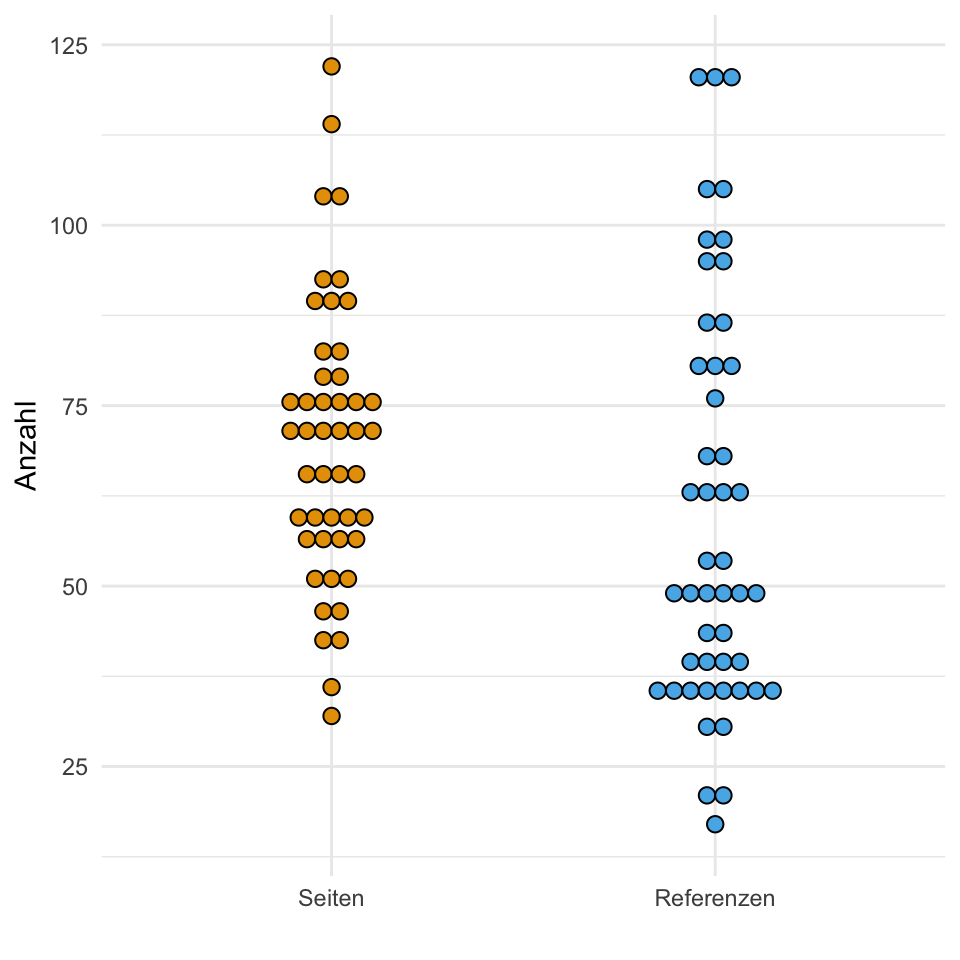
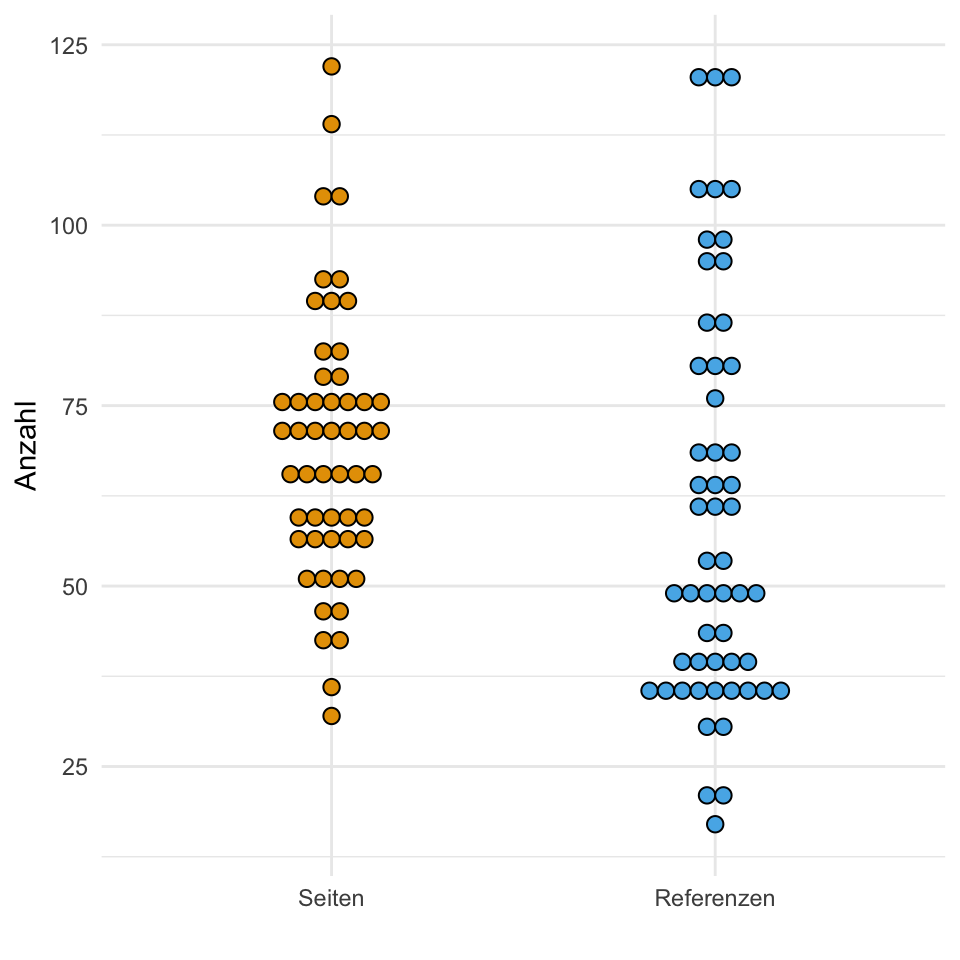
added text

diff --git a/docs/abschlussarbeit.html b/docs/abschlussarbeit.html
@@ -457,7 +457,7 @@ window.Quarto = {
           <li class="sidebar-item">
   <div class="sidebar-item-container"> 
   <a href="./stat-tests-posthoc.html" class="sidebar-item-text sidebar-link">
- <span class="menu-text"><span class="chapter-number">33</span>&nbsp; <span class="chapter-title">Multiple Vergleiche oder Post-hoc Tests</span></span></a>
+ <span class="menu-text"><span class="chapter-number">33</span>&nbsp; <span class="chapter-title">Multiple Vergleiche &amp; Post-hoc Tests</span></span></a>
   </div>
 </li>
           <li class="sidebar-item">
@@ -816,7 +816,7 @@ window.Quarto = {
 </header>
 
 
-<p><em>Letzte Änderung am 10. March 2024 um 20:32:29</em></p>
+<p><em>Letzte Änderung am 16. March 2024 um 19:24:32</em></p>
 <blockquote class="blockquote">
 <p><em>“There is no such thing as a new idea. It is impossible. We simply take a lot of old ideas and put them into a sort of mental kaleidoscope. We give them a turn and they make new and curious combinations. We keep on turning and making new combinations indefinitely; but they are the same old pieces of colored glass that have been in use through all the ages.” — Mark Twain</em></p>
 </blockquote>
@@ -845,7 +845,7 @@ Hilfe durch die Studienberatung
 <div id="fig-abschlussarbeit-bsc1" class="quarto-figure quarto-figure-center quarto-float anchored" data-fig-align="center">
 <figure class="quarto-float quarto-float-fig figure">
 <div aria-describedby="fig-abschlussarbeit-bsc1-caption-0ceaefa1-69ba-4598-a22c-09a6ac19f8ca">
-<a href="abschlussarbeit_files/figure-html/fig-abschlussarbeit-bsc1-1.png" class="lightbox" data-gallery="quarto-lightbox-gallery-1" data-glightbox="description: .lightbox-desc-1"><img src="abschlussarbeit_files/figure-html/fig-abschlussarbeit-bsc1-1.png" class="img-fluid quarto-figure quarto-figure-center figure-img" width="480"></a>
+<a href="abschlussarbeit_files/figure-html/fig-abschlussarbeit-bsc1-1.png" class="lightbox" data-glightbox="description: .lightbox-desc-1" data-gallery="quarto-lightbox-gallery-1"><img src="abschlussarbeit_files/figure-html/fig-abschlussarbeit-bsc1-1.png" class="img-fluid quarto-figure quarto-figure-center figure-img" width="480"></a>
 </div>
 <figcaption class="quarto-float-caption-bottom quarto-float-caption quarto-float-fig" id="fig-abschlussarbeit-bsc1-caption-0ceaefa1-69ba-4598-a22c-09a6ac19f8ca">
 Abbildung&nbsp;4.1— Anzahl der Referenzen und Seiten in Bachelorarbeiten der Fakultät Agrarwissenschaften und Landschaftsarchitektur (AuL). Alle Angaben ohne Gewähr und Doppelungen können enthalten sein. Die Auswertung fand anonym im Rahmen des Moduls <em>Spezielle Statistik und Versuchswesen</em> im Studiengang Pflanzenbiologie statt.
@@ -861,10 +861,10 @@ Abbildung&nbsp;4.1— Anzahl der Referenzen und Seiten in Bachelorarbeiten der F
 <div id="fig-abschlussarbeit-bsc2" class="quarto-figure quarto-figure-center quarto-float anchored" data-fig-align="center">
 <figure class="quarto-float quarto-float-fig figure">
 <div aria-describedby="fig-abschlussarbeit-bsc2-caption-0ceaefa1-69ba-4598-a22c-09a6ac19f8ca">
-<a href="abschlussarbeit_files/figure-html/fig-abschlussarbeit-bsc2-1.png" class="lightbox" data-gallery="quarto-lightbox-gallery-2" data-glightbox="description: .lightbox-desc-2"><img src="abschlussarbeit_files/figure-html/fig-abschlussarbeit-bsc2-1.png" class="img-fluid quarto-figure quarto-figure-center figure-img" width="576"></a>
+<a href="abschlussarbeit_files/figure-html/fig-abschlussarbeit-bsc2-1.png" class="lightbox" data-glightbox="description: .lightbox-desc-2" data-gallery="quarto-lightbox-gallery-2"><img src="abschlussarbeit_files/figure-html/fig-abschlussarbeit-bsc2-1.png" class="img-fluid quarto-figure quarto-figure-center figure-img" width="576"></a>
 </div>
 <figcaption class="quarto-float-caption-bottom quarto-float-caption quarto-float-fig" id="fig-abschlussarbeit-bsc2-caption-0ceaefa1-69ba-4598-a22c-09a6ac19f8ca">
-Abbildung&nbsp;4.2— Darstellung des heterogenen Zusammenhangs von Seitenzahlen zu der Anzahl an Referenzen in einer Bachelorarbeit. Die rote Linie stellt ein 1:1 Verhältnis von Seitenzahl und der Anzahl an Referenzen dar. Die gestrichelten Linien geben das Minimum und das Maximum, die durchgezogene Linien die mittlere Seitenzahl sowie die mittlere Anzahl an Referenzen wieder. Eingefärbt sind die Punkte nach der Foldchange (abk. <em>FC</em>). Insgesamt haben 24 Arbeiten weniger Referenzen als Seiten zu 13 Arbeiten mit mehr Referenzen als Seiten.
+Abbildung&nbsp;4.2— Darstellung des heterogenen Zusammenhangs von Seitenzahlen zu der Anzahl an Referenzen in einer Bachelorarbeit. Die rote Linie stellt ein 1:1 Verhältnis von Seitenzahl und der Anzahl an Referenzen dar. Die gestrichelten Linien geben das Minimum und das Maximum, die durchgezogene Linien die mittlere Seitenzahl sowie die mittlere Anzahl an Referenzen wieder. Eingefärbt sind die Punkte nach der Foldchange (abk. <em>FC</em>). Insgesamt haben 27 Arbeiten weniger Referenzen als Seiten zu 16 Arbeiten mit mehr Referenzen als Seiten.
 </figcaption>
 </figure>
 </div>
@@ -914,7 +914,7 @@ How to read a book…
 <div id="fig-abschluss-01" class="quarto-figure quarto-figure-center quarto-float anchored" width="100%" data-fig-align="center">
 <figure class="quarto-float quarto-float-fig figure">
 <div aria-describedby="fig-abschluss-01-caption-0ceaefa1-69ba-4598-a22c-09a6ac19f8ca">
-<a href="images/abschlussarbeit/phd_writing_01.png" class="lightbox" data-gallery="quarto-lightbox-gallery-3" data-glightbox="description: .lightbox-desc-3"><img src="images/abschlussarbeit/phd_writing_01.png" id="fig-abschluss-01" class="img-fluid quarto-figure quarto-figure-center anchored figure-img" style="width:100.0%"></a>
+<a href="images/abschlussarbeit/phd_writing_01.png" class="lightbox" data-glightbox="description: .lightbox-desc-3" data-gallery="quarto-lightbox-gallery-3"><img src="images/abschlussarbeit/phd_writing_01.png" id="fig-abschluss-01" class="img-fluid quarto-figure quarto-figure-center anchored figure-img" style="width:100.0%"></a>
 </div>
 <figcaption class="quarto-float-caption-bottom quarto-float-caption quarto-float-fig quarto-uncaptioned" id="fig-abschluss-01-caption-0ceaefa1-69ba-4598-a22c-09a6ac19f8ca">
 Abbildung&nbsp;4.3
@@ -949,7 +949,7 @@ Abbildung&nbsp;4.3
 <div id="fig-write-motivation" class="quarto-figure quarto-figure-center quarto-float anchored" data-fig-align="center">
 <figure class="quarto-float quarto-float-fig figure">
 <div aria-describedby="fig-write-motivation-caption-0ceaefa1-69ba-4598-a22c-09a6ac19f8ca">
-<a href="images/abschlussarbeit/motivation.jpg" class="lightbox" data-gallery="quarto-lightbox-gallery-4" data-glightbox="description: .lightbox-desc-4"><img src="images/abschlussarbeit/motivation.jpg" class="img-fluid quarto-figure quarto-figure-center figure-img" style="width:50.0%"></a>
+<a href="images/abschlussarbeit/motivation.jpg" class="lightbox" data-glightbox="description: .lightbox-desc-4" data-gallery="quarto-lightbox-gallery-4"><img src="images/abschlussarbeit/motivation.jpg" class="img-fluid quarto-figure quarto-figure-center figure-img" style="width:50.0%"></a>
 </div>
 <figcaption class="quarto-float-caption-bottom quarto-float-caption quarto-float-fig" id="fig-write-motivation-caption-0ceaefa1-69ba-4598-a22c-09a6ac19f8ca">
 Abbildung&nbsp;4.4— Der kleiner Unterschied zwischen der Motivation und der Disziplin. Quelle: @impostercomics
@@ -960,7 +960,7 @@ Abbildung&nbsp;4.4— Der kleiner Unterschied zwischen der Motivation und der Di
 <div id="fig-writing-github" class="quarto-figure quarto-figure-center quarto-float anchored" data-fig-align="center">
 <figure class="quarto-float quarto-float-fig figure">
 <div aria-describedby="fig-writing-github-caption-0ceaefa1-69ba-4598-a22c-09a6ac19f8ca">
-<a href="images/abschlussarbeit/github_2023_09.png" class="lightbox" data-gallery="quarto-lightbox-gallery-5" data-glightbox="description: .lightbox-desc-5"><img src="images/abschlussarbeit/github_2023_09.png" class="img-fluid quarto-figure quarto-figure-center figure-img" style="width:1000.0%"></a>
+<a href="images/abschlussarbeit/github_2023_09.png" class="lightbox" data-glightbox="description: .lightbox-desc-5" data-gallery="quarto-lightbox-gallery-5"><img src="images/abschlussarbeit/github_2023_09.png" class="img-fluid quarto-figure quarto-figure-center figure-img" style="width:1000.0%"></a>
 </div>
 <figcaption class="quarto-float-caption-bottom quarto-float-caption quarto-float-fig" id="fig-writing-github-caption-0ceaefa1-69ba-4598-a22c-09a6ac19f8ca">
 Abbildung&nbsp;4.5— Mein Schreibprozess am Skript und anderen Lehrprojekten. Es ist nicht immer dieses Skript, ich mache ja noch andere Sachen im bezug auf meine Lehre.
@@ -984,7 +984,7 @@ Abbildung&nbsp;4.5— Mein Schreibprozess am Skript und anderen Lehrprojekten. E
 <div id="fig-write-phd-02" class="quarto-figure quarto-figure-center quarto-float anchored" width="50%" data-fig-align="center">
 <figure class="quarto-float quarto-float-fig figure">
 <div aria-describedby="fig-write-phd-02-caption-0ceaefa1-69ba-4598-a22c-09a6ac19f8ca">
-<a href="images/abschlussarbeit/coffee.jpg" class="lightbox" data-gallery="quarto-lightbox-gallery-6" data-glightbox="description: .lightbox-desc-6"><img src="images/abschlussarbeit/coffee.jpg" id="fig-write-phd-02" class="img-fluid quarto-figure quarto-figure-center anchored figure-img" style="width:50.0%"></a>
+<a href="images/abschlussarbeit/coffee.jpg" class="lightbox" data-glightbox="description: .lightbox-desc-6" data-gallery="quarto-lightbox-gallery-6"><img src="images/abschlussarbeit/coffee.jpg" id="fig-write-phd-02" class="img-fluid quarto-figure quarto-figure-center anchored figure-img" style="width:50.0%"></a>
 </div>
 <figcaption class="quarto-float-caption-bottom quarto-float-caption quarto-float-fig quarto-uncaptioned" id="fig-write-phd-02-caption-0ceaefa1-69ba-4598-a22c-09a6ac19f8ca">
 Abbildung&nbsp;4.6
@@ -1042,7 +1042,7 @@ Warum nicht mit <span class="math inline">\(\LaTeX\)</span> und Overleaf?
 <div id="fig-write-phd-02" class="quarto-figure quarto-figure-center quarto-float anchored" width="100%" data-fig-align="center">
 <figure class="quarto-float quarto-float-fig figure">
 <div aria-describedby="fig-write-phd-02-caption-0ceaefa1-69ba-4598-a22c-09a6ac19f8ca">
-<a href="images/abschlussarbeit/phd_betreuer-1.jpg" class="lightbox" data-gallery="quarto-lightbox-gallery-7" data-glightbox="description: .lightbox-desc-7"><img src="images/abschlussarbeit/phd_betreuer-1.jpg" id="fig-write-phd-02" class="img-fluid quarto-figure quarto-figure-center anchored figure-img" style="width:100.0%"></a>
+<a href="images/abschlussarbeit/phd_betreuer-1.jpg" class="lightbox" data-glightbox="description: .lightbox-desc-7" data-gallery="quarto-lightbox-gallery-7"><img src="images/abschlussarbeit/phd_betreuer-1.jpg" id="fig-write-phd-02" class="img-fluid quarto-figure quarto-figure-center anchored figure-img" style="width:100.0%"></a>
 </div>
 <figcaption class="quarto-float-caption-bottom quarto-float-caption quarto-float-fig quarto-uncaptioned" id="fig-write-phd-02-caption-0ceaefa1-69ba-4598-a22c-09a6ac19f8ca">
 Abbildung&nbsp;4.7
@@ -1061,7 +1061,7 @@ Abbildung&nbsp;4.7
 <div id="fig-write-phd-03" class="quarto-figure quarto-figure-center quarto-float anchored" width="100%" data-fig-align="center">
 <figure class="quarto-float quarto-float-fig figure">
 <div aria-describedby="fig-write-phd-03-caption-0ceaefa1-69ba-4598-a22c-09a6ac19f8ca">
-<a href="images/abschlussarbeit/phd_betreuer-2.jpg" class="lightbox" data-gallery="quarto-lightbox-gallery-8" data-glightbox="description: .lightbox-desc-8"><img src="images/abschlussarbeit/phd_betreuer-2.jpg" id="fig-write-phd-03" class="img-fluid quarto-figure quarto-figure-center anchored figure-img" style="width:100.0%"></a>
+<a href="images/abschlussarbeit/phd_betreuer-2.jpg" class="lightbox" data-glightbox="description: .lightbox-desc-8" data-gallery="quarto-lightbox-gallery-8"><img src="images/abschlussarbeit/phd_betreuer-2.jpg" id="fig-write-phd-03" class="img-fluid quarto-figure quarto-figure-center anchored figure-img" style="width:100.0%"></a>
 </div>
 <figcaption class="quarto-float-caption-bottom quarto-float-caption quarto-float-fig quarto-uncaptioned" id="fig-write-phd-03-caption-0ceaefa1-69ba-4598-a22c-09a6ac19f8ca">
 Abbildung&nbsp;4.8
@@ -1091,7 +1091,7 @@ Abbildung&nbsp;4.8
 <div id="fig-duerer" class="quarto-figure quarto-figure-center quarto-float anchored" data-fig-align="center">
 <figure class="quarto-float quarto-float-fig figure">
 <div aria-describedby="fig-duerer-caption-0ceaefa1-69ba-4598-a22c-09a6ac19f8ca">
-<a href="images/preface/melencolia.jpg" class="lightbox" data-gallery="quarto-lightbox-gallery-9" data-glightbox="description: .lightbox-desc-9"><img src="images/preface/melencolia.jpg" class="img-fluid quarto-figure quarto-figure-center figure-img" style="width:100.0%"></a>
+<a href="images/preface/melencolia.jpg" class="lightbox" data-glightbox="description: .lightbox-desc-9" data-gallery="quarto-lightbox-gallery-9"><img src="images/preface/melencolia.jpg" class="img-fluid quarto-figure quarto-figure-center figure-img" style="width:100.0%"></a>
 </div>
 <figcaption class="quarto-float-caption-bottom quarto-float-caption quarto-float-fig" id="fig-duerer-caption-0ceaefa1-69ba-4598-a22c-09a6ac19f8ca">
 Abbildung&nbsp;4.9— Die erste Stufe des Genies, mit dem Willen zum Schaffen, aber unfähig, zu tun
@@ -1122,7 +1122,7 @@ Wichtigste Frage am Ende deiner Abschussarbeit…
 <div id="fig-write-01" class="quarto-figure quarto-figure-center quarto-float anchored" data-fig-align="center">
 <figure class="quarto-float quarto-float-fig figure">
 <div aria-describedby="fig-write-01-caption-0ceaefa1-69ba-4598-a22c-09a6ac19f8ca">
-<a href="images/abschlussarbeit/weisseblatt.jpeg" class="lightbox" data-gallery="quarto-lightbox-gallery-10" data-glightbox="description: .lightbox-desc-10"><img src="images/abschlussarbeit/weisseblatt.jpeg" class="img-fluid quarto-figure quarto-figure-center figure-img" style="width:80.0%"></a>
+<a href="images/abschlussarbeit/weisseblatt.jpeg" class="lightbox" data-glightbox="description: .lightbox-desc-10" data-gallery="quarto-lightbox-gallery-10"><img src="images/abschlussarbeit/weisseblatt.jpeg" class="img-fluid quarto-figure quarto-figure-center figure-img" style="width:80.0%"></a>
 </div>
 <figcaption class="quarto-float-caption-bottom quarto-float-caption quarto-float-fig" id="fig-write-01-caption-0ceaefa1-69ba-4598-a22c-09a6ac19f8ca">
 Abbildung&nbsp;4.10— Quelle: Dorthe Landschulz / Holzbaum-Verlag
@@ -1255,7 +1255,7 @@ Hinweis
 <div id="fig-write-04" class="quarto-figure quarto-figure-center quarto-float anchored" width="70%" data-fig-align="center">
 <figure class="quarto-float quarto-float-fig figure">
 <div aria-describedby="fig-write-04-caption-0ceaefa1-69ba-4598-a22c-09a6ac19f8ca">
-<a href="images/abschlussarbeit/comma.jpg" class="lightbox" data-gallery="quarto-lightbox-gallery-11" data-glightbox="description: .lightbox-desc-11"><img src="images/abschlussarbeit/comma.jpg" id="fig-write-04" class="img-fluid quarto-figure quarto-figure-center anchored figure-img" style="width:70.0%"></a>
+<a href="images/abschlussarbeit/comma.jpg" class="lightbox" data-glightbox="description: .lightbox-desc-11" data-gallery="quarto-lightbox-gallery-11"><img src="images/abschlussarbeit/comma.jpg" id="fig-write-04" class="img-fluid quarto-figure quarto-figure-center anchored figure-img" style="width:70.0%"></a>
 </div>
 <figcaption class="quarto-float-caption-bottom quarto-float-caption quarto-float-fig quarto-uncaptioned" id="fig-write-04-caption-0ceaefa1-69ba-4598-a22c-09a6ac19f8ca">
 Abbildung&nbsp;4.11
@@ -1292,7 +1292,7 @@ Gut
 <div id="fig-write-02" class="quarto-figure quarto-figure-center quarto-float anchored" width="70%" data-fig-align="center">
 <figure class="quarto-float quarto-float-fig figure">
 <div aria-describedby="fig-write-02-caption-0ceaefa1-69ba-4598-a22c-09a6ac19f8ca">
-<a href="images/abschlussarbeit/dog_poo.png" class="lightbox" data-gallery="quarto-lightbox-gallery-12" data-glightbox="description: .lightbox-desc-12"><img src="images/abschlussarbeit/dog_poo.png" id="fig-write-02" class="img-fluid quarto-figure quarto-figure-center anchored figure-img" style="width:70.0%"></a>
+<a href="images/abschlussarbeit/dog_poo.png" class="lightbox" data-glightbox="description: .lightbox-desc-12" data-gallery="quarto-lightbox-gallery-12"><img src="images/abschlussarbeit/dog_poo.png" id="fig-write-02" class="img-fluid quarto-figure quarto-figure-center anchored figure-img" style="width:70.0%"></a>
 </div>
 <figcaption class="quarto-float-caption-bottom quarto-float-caption quarto-float-fig quarto-uncaptioned" id="fig-write-02-caption-0ceaefa1-69ba-4598-a22c-09a6ac19f8ca">
 Abbildung&nbsp;4.12
@@ -1355,7 +1355,7 @@ Gut
 <div id="fig-write-03" class="quarto-figure quarto-figure-center quarto-float anchored" width="70%" data-fig-align="center">
 <figure class="quarto-float quarto-float-fig figure">
 <div aria-describedby="fig-write-03-caption-0ceaefa1-69ba-4598-a22c-09a6ac19f8ca">
-<a href="images/abschlussarbeit/snake_holiday.png" class="lightbox" data-gallery="quarto-lightbox-gallery-13" data-glightbox="description: .lightbox-desc-13"><img src="images/abschlussarbeit/snake_holiday.png" id="fig-write-03" class="img-fluid quarto-figure quarto-figure-center anchored figure-img" style="width:70.0%"></a>
+<a href="images/abschlussarbeit/snake_holiday.png" class="lightbox" data-glightbox="description: .lightbox-desc-13" data-gallery="quarto-lightbox-gallery-13"><img src="images/abschlussarbeit/snake_holiday.png" id="fig-write-03" class="img-fluid quarto-figure quarto-figure-center anchored figure-img" style="width:70.0%"></a>
 </div>
 <figcaption class="quarto-float-caption-bottom quarto-float-caption quarto-float-fig quarto-uncaptioned" id="fig-write-03-caption-0ceaefa1-69ba-4598-a22c-09a6ac19f8ca">
 Abbildung&nbsp;4.13
@@ -1463,7 +1463,7 @@ Wichtig - Bitte lesen!
 <div id="fig-bsc-01" class="quarto-figure quarto-figure-center quarto-float anchored" data-fig-align="center">
 <figure class="quarto-float quarto-float-fig figure">
 <div aria-describedby="fig-bsc-01-caption-0ceaefa1-69ba-4598-a22c-09a6ac19f8ca">
-<a href="images/bachelor.png" class="lightbox" data-gallery="quarto-lightbox-gallery-14" data-glightbox="description: .lightbox-desc-14"><img src="images/bachelor.png" class="img-fluid quarto-figure quarto-figure-center figure-img" style="width:60.0%"></a>
+<a href="images/bachelor.png" class="lightbox" data-glightbox="description: .lightbox-desc-14" data-gallery="quarto-lightbox-gallery-14"><img src="images/bachelor.png" class="img-fluid quarto-figure quarto-figure-center figure-img" style="width:60.0%"></a>
 </div>
 <figcaption class="quarto-float-caption-bottom quarto-float-caption quarto-float-fig" id="fig-bsc-01-caption-0ceaefa1-69ba-4598-a22c-09a6ac19f8ca">
 Abbildung&nbsp;4.14— Grober zeitlicher Ablauf einer Bachelorarbeit. Die Präsentation umfasst ca. 10 Slides und folgt ebenfalls dem IMRAD Schema. Ich rechne mit 350 Worten pro deutscher Standardseite.
@@ -1512,7 +1512,7 @@ Korrekte Beschriftung und Referenzierung einer Abbildung
 <div id="fig-boxplot-example" class="quarto-figure quarto-figure-center quarto-float anchored" data-fig-align="center">
 <figure class="quarto-float quarto-float-fig figure">
 <div aria-describedby="fig-boxplot-example-caption-0ceaefa1-69ba-4598-a22c-09a6ac19f8ca">
-<a href="abschlussarbeit_files/figure-html/fig-boxplot-example-1.png" class="lightbox" data-gallery="quarto-lightbox-gallery-15" data-glightbox="description: .lightbox-desc-15"><img src="abschlussarbeit_files/figure-html/fig-boxplot-example-1.png" class="img-fluid quarto-figure quarto-figure-center figure-img" width="384"></a>
+<a href="abschlussarbeit_files/figure-html/fig-boxplot-example-1.png" class="lightbox" data-glightbox="description: .lightbox-desc-15" data-gallery="quarto-lightbox-gallery-15"><img src="abschlussarbeit_files/figure-html/fig-boxplot-example-1.png" class="img-fluid quarto-figure quarto-figure-center figure-img" width="384"></a>
 </div>
 <figcaption class="quarto-float-caption-bottom quarto-float-caption quarto-float-fig" id="fig-boxplot-example-caption-0ceaefa1-69ba-4598-a22c-09a6ac19f8ca">
 Abbildung&nbsp;4.15— Boxplots der Sprungweiten in [cm] getrennt für Hunde- und Katzenflöhe.
@@ -1627,7 +1627,7 @@ Tabelle&nbsp;4.1— Tabelle der Sprunglängen in [cm] von Hunde- und Katzenflöh
 
 <div class="hidden" aria-hidden="true">
 <span class="glightbox-desc lightbox-desc-1">Abbildung&nbsp;4.1— Anzahl der Referenzen und Seiten in Bachelorarbeiten der Fakultät Agrarwissenschaften und Landschaftsarchitektur (AuL). Alle Angaben ohne Gewähr und Doppelungen können enthalten sein. Die Auswertung fand anonym im Rahmen des Moduls <em>Spezielle Statistik und Versuchswesen</em> im Studiengang Pflanzenbiologie statt.</span>
-<span class="glightbox-desc lightbox-desc-2">Abbildung&nbsp;4.2— Darstellung des heterogenen Zusammenhangs von Seitenzahlen zu der Anzahl an Referenzen in einer Bachelorarbeit. Die rote Linie stellt ein 1:1 Verhältnis von Seitenzahl und der Anzahl an Referenzen dar. Die gestrichelten Linien geben das Minimum und das Maximum, die durchgezogene Linien die mittlere Seitenzahl sowie die mittlere Anzahl an Referenzen wieder. Eingefärbt sind die Punkte nach der Foldchange (abk. <em>FC</em>). Insgesamt haben 24 Arbeiten weniger Referenzen als Seiten zu 13 Arbeiten mit mehr Referenzen als Seiten.</span>
+<span class="glightbox-desc lightbox-desc-2">Abbildung&nbsp;4.2— Darstellung des heterogenen Zusammenhangs von Seitenzahlen zu der Anzahl an Referenzen in einer Bachelorarbeit. Die rote Linie stellt ein 1:1 Verhältnis von Seitenzahl und der Anzahl an Referenzen dar. Die gestrichelten Linien geben das Minimum und das Maximum, die durchgezogene Linien die mittlere Seitenzahl sowie die mittlere Anzahl an Referenzen wieder. Eingefärbt sind die Punkte nach der Foldchange (abk. <em>FC</em>). Insgesamt haben 27 Arbeiten weniger Referenzen als Seiten zu 16 Arbeiten mit mehr Referenzen als Seiten.</span>
 <span class="glightbox-desc lightbox-desc-3">Abbildung&nbsp;4.3— </span>
 <span class="glightbox-desc lightbox-desc-4">Abbildung&nbsp;4.4— Der kleiner Unterschied zwischen der Motivation und der Disziplin. Quelle: @impostercomics</span>
 <span class="glightbox-desc lightbox-desc-5">Abbildung&nbsp;4.5— Mein Schreibprozess am Skript und anderen Lehrprojekten. Es ist nicht immer dieses Skript, ich mache ja noch andere Sachen im bezug auf meine Lehre.</span>
@@ -2258,7 +2258,7 @@ window.document.addEventListener("DOMContentLoaded", function (event) {
 </div>
   </div>
 </footer>
-<script>var lightboxQuarto = GLightbox({"loop":false,"descPosition":"bottom","closeEffect":"zoom","openEffect":"zoom","selector":".lightbox"});
+<script>var lightboxQuarto = GLightbox({"closeEffect":"zoom","loop":false,"selector":".lightbox","descPosition":"bottom","openEffect":"zoom"});
 window.onload = () => {
   lightboxQuarto.on('slide_before_load', (data) => {
     const { slideIndex, slideNode, slideConfig, player, trigger } = data;

diff --git a/docs/app-spielecke.html b/docs/app-spielecke.html
@@ -844,7 +844,7 @@ window.Quarto = {
 </header>
 
 
-<p><em>Letzte Änderung am 16. March 2024 um 18:55:04</em></p>
+<p><em>Letzte Änderung am 16. March 2024 um 21:32:57</em></p>
 <blockquote class="blockquote">
 <p><em>“Denn, um es endlich auf einmal herauszusagen, der Mensch spielt nur, wo er in voller Bedeutung des Worts Mensch ist, und er ist nur da ganz Mensch, wo er spielt.” — Friedrich Schiller</em></p>
 </blockquote>
@@ -860,6 +860,7 @@ window.Quarto = {
 <h2 class="unnumbered anchored" data-anchor-id="science-cops">Science Cops</h2>
 <p><a href="https://www.quarks.de/podcast/science-cops-der-fall-jasper-caven/">Der Fall Jasper Caven: Abnehmen mit Stoffwechsel-Pillen?</a></p>
 <p><a href="https://www.youtube.com/watch?v=buUq_1ZSwOA">Wie Jasper Caven ABNEHM-LÜGEN verbreitet | Podcast #49 (02/23) | Quarks Science Cops</a></p>
+<p><a href="https://www.sciencedirect.com/science/article/pii/S000291652323508X?via%3Dihub">Green tea extract ingestion, fat oxidation, and glucose tolerance in healthy humans</a></p>
 </section>
 <section id="zerforschen" class="level2 unnumbered">
 <h2 class="unnumbered anchored" data-anchor-id="zerforschen">Zerforschen</h2>
@@ -1934,7 +1935,7 @@ window.document.addEventListener("DOMContentLoaded", function (event) {
 </div>
   </div>
 </footer>
-<script>var lightboxQuarto = GLightbox({"closeEffect":"zoom","openEffect":"zoom","descPosition":"bottom","loop":false,"selector":".lightbox"});
+<script>var lightboxQuarto = GLightbox({"openEffect":"zoom","selector":".lightbox","closeEffect":"zoom","loop":false,"descPosition":"bottom"});
 window.onload = () => {
   lightboxQuarto.on('slide_before_load', (data) => {
     const { slideIndex, slideNode, slideConfig, player, trigger } = data;
